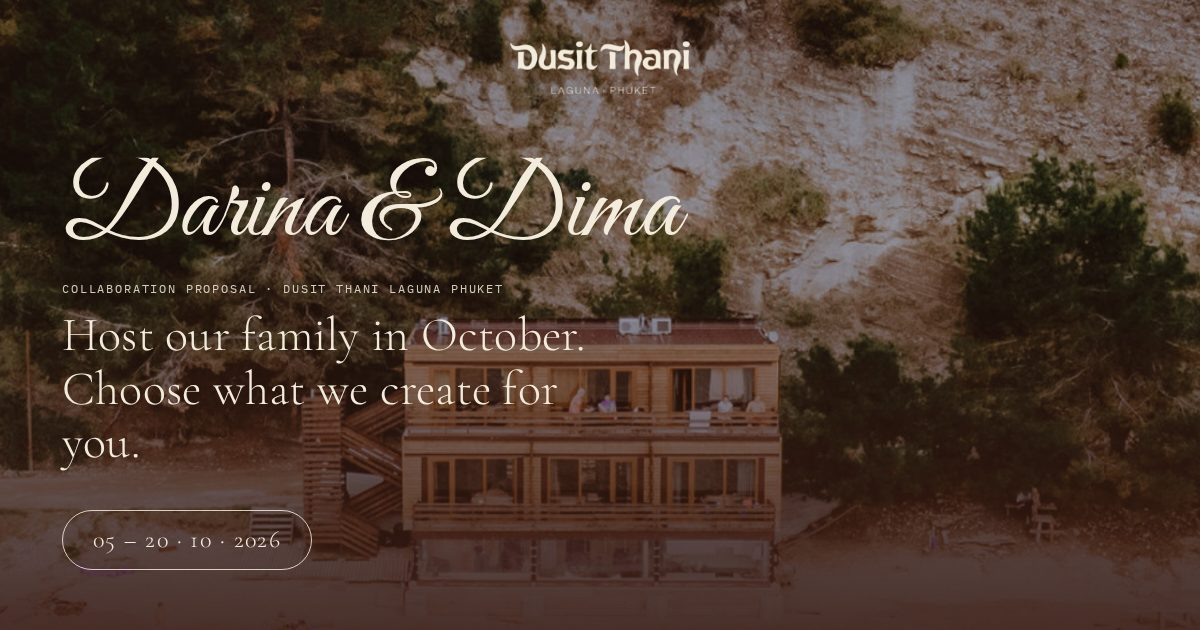
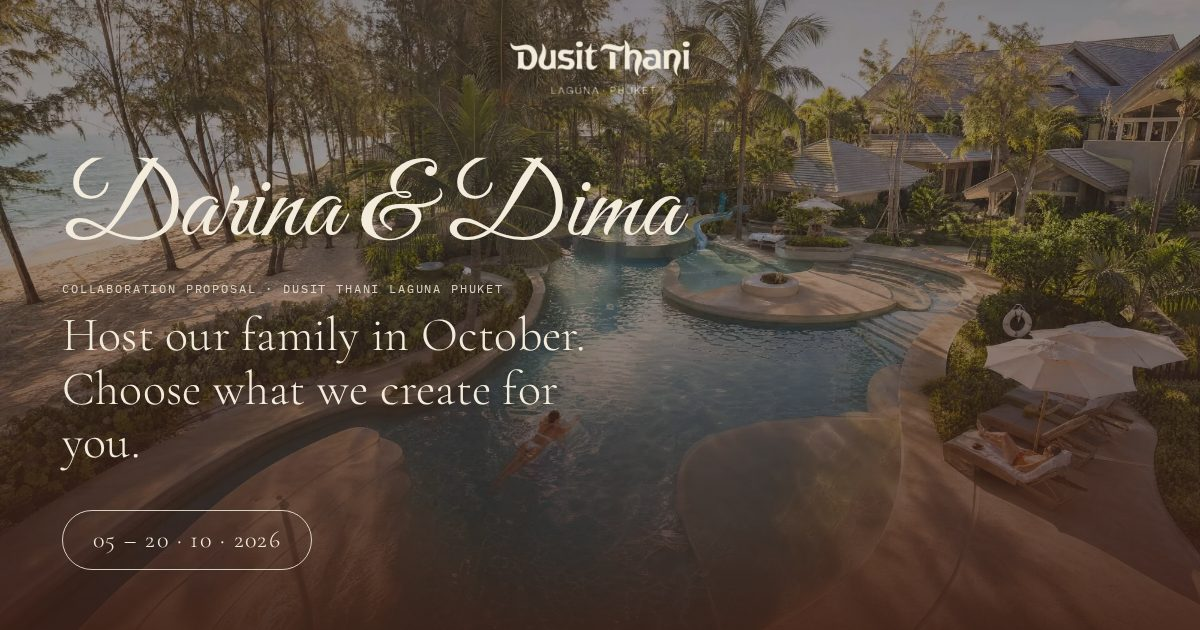
Pitch site: hotel pool AI concept as hero background, updated link preview
Claude-Session: https://claude.ai/code/session_01RXvj6PgSMpgt3sxEdMcpNY

diff --git a/dusit/i18n.js b/dusit/i18n.js
@@ -100,7 +100,7 @@ window.PITCH_I18N = {
     "fi.wa": "WhatsApp",
     "fi.mail": "ส่งอีเมล",
     "foot": "ข้อเสนออิสระที่จัดทำขึ้นสำหรับดุสิตธานี ลากูน่า ภูเก็ต",
-    "hero.cap": "ภาพพื้นหลัง: ผลงานโดรนของเรา · อับคาเซีย",
+    "hero.cap": "ภาพพื้นหลัง: คอนเซ็ปต์ AI ของสระว่ายน้ำของคุณ",
     "bs.eyebrow": "ความปลอดภัยของแบรนด์",
     "bs.title": "แบรนด์ของคุณ อยู่ในการควบคุมของคุณ",
     "bs.1h": "คุณอนุมัติทุกชิ้น",
@@ -299,7 +299,7 @@ window.PITCH_I18N = {
     "fi.wa": "WhatsApp",
     "fi.mail": "Написать на почту",
     "foot": "Независимое предложение, подготовленное для Dusit Thani Laguna Phuket.",
-    "hero.cap": "Фон: наша съёмка с дрона · Абхазия",
+    "hero.cap": "Фон: ИИ-концепт вашего бассейна",
     "bs.eyebrow": "Безопасность бренда",
     "bs.title": "Ваш бренд остаётся под вашим контролем.",
     "bs.1h": "Вы согласуете всё",

diff --git a/dusit/index.html b/dusit/index.html
@@ -328,7 +328,7 @@ section{overflow-x:clip}
 .burst{transform:rotate(calc(-12deg + var(--spin,0deg)))}
 .burst.in{transition:opacity .6s ease,transform 1.1s cubic-bezier(.3,1.6,.4,1)}
 .hero{background:var(--brown-2)}
-.hero::before{content:"";position:absolute;inset:0;background:url("media/pf/drone-beach.jpg") center/cover no-repeat;animation:kb 18s ease-out both}
+.hero::before{content:"";position:absolute;inset:0;background:url("media/ai/hero-pool.jpg") center 60%/cover no-repeat;animation:kb 18s ease-out both}
 @keyframes kb{from{transform:scale(1.18)}to{transform:scale(1)}}
 @keyframes heroIn{from{opacity:0;transform:translateY(34px)}to{opacity:1;transform:none}}
 @keyframes write{from{clip-path:inset(0 100% 0 0)}to{clip-path:inset(0 -10% 0 0)}}
@@ -429,7 +429,7 @@ html[lang="th"] .gift-badge{letter-spacing:.02em;text-transform:none;font-size:1
       <a class="btn gold cta-work" href="#work" data-t="hero.cta1">See our hotel work</a>
       <a class="btn ghost" href="#offers" data-t="hero.cta2">See the proposal</a>
     </div>
-    <div class="herocap" data-t="hero.cap">Background: our drone work · Abkhazia</div>
+    <div class="herocap" data-t="hero.cap">Background: AI concept of your pool</div>
     <div class="exclusive" data-t="hero.exclusive">Prepared exclusively for the Marketing team of Dusit Thani Laguna Phuket</div>
   </div>
 </section>
